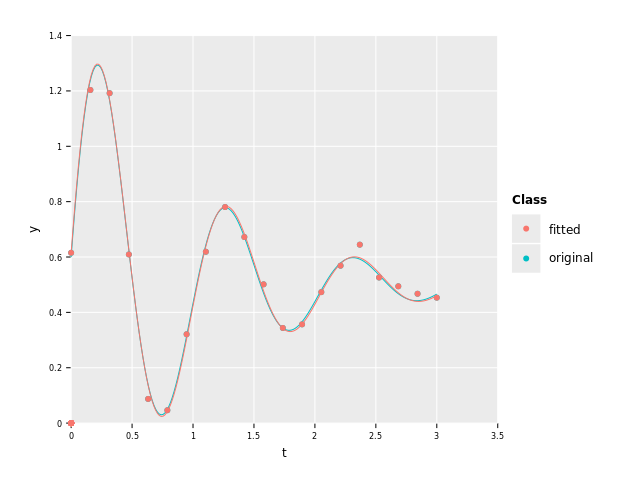
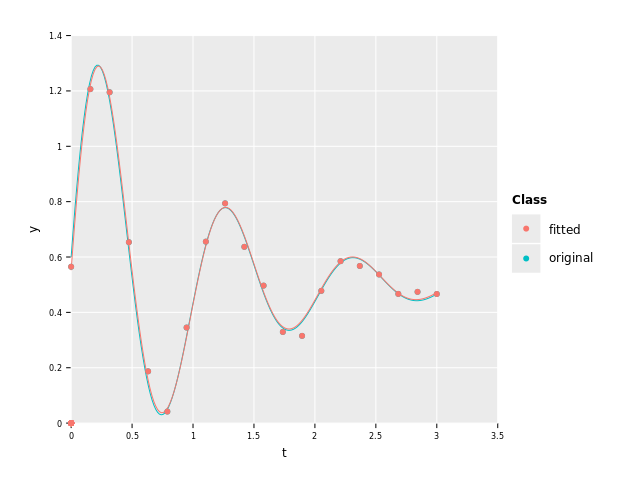
deploy: ea1044a0f6fc54a6c3d02a4777f60af0a025a29b

diff --git a/numerical_methods/curve_fitting.html b/numerical_methods/curve_fitting.html
@@ -290,14 +290,14 @@ that is needed is an initial guess of the parameters. We will set them to all 1 
                         <p>Now we are ready to do the actual fitting:</p>
                         <pre><code class="nohighlight hljs nim"><span class="hljs-keyword">let</span> solution = levmarq(fitFunc, initialGuess, t, y)
 <span class="hljs-keyword">echo</span> solution</code></pre><pre class="nb-output">Tensor[system.float] of shape &quot;[4]&quot; on backend &quot;Cpu&quot;
-    0.49973     5.96365    0.114903    0.981149</pre>
+    0.503366      6.03074    0.0489922      1.00508</pre>
                         <p>As we can see, the found parameters are very close to the actual ones. But maybe we can do better,
 <code>levmarq</code> accepts an <code>options</code> parameter which is the same as the one described in <a href="./optimization.html">Optimization</a>
 with the addition of the <code>lambda0</code> parameter. We can reduce the <code>tol</code> and see if we get an even better fit:</p>
                         <pre><code class="nohighlight hljs nim"><span class="hljs-keyword">let</span> options = levmarqOptions(tol=<span class="hljs-number">1e-10</span>)
 <span class="hljs-keyword">let</span> solution = levmarq(fitFunc, initialGuess, t, y, options=options)
 <span class="hljs-keyword">echo</span> solution</code></pre><pre class="nb-output">Tensor[system.float] of shape &quot;[4]&quot; on backend &quot;Cpu&quot;
-    0.49973     5.96365    0.114903    0.981149</pre>
+    0.503366      6.03074    0.0489921      1.00508</pre>
                         <p>As we can see, there isn't really any difference. So we can conclude that the
 found solution has in fact converged.</p>
 <p>Here's a plot comparing the fitted and original function:</p>
@@ -321,7 +321,7 @@ of your measurements or you may have to approximate it using the data itself.</p
   fitFunc(solution, x)</code></pre>
                         <p>Now we can calculate the $\chi^2$ using numericalnim's <code>chi2</code> proc:</p>
                         <pre><code class="nohighlight hljs nim"><span class="hljs-keyword">let</span> chi = chi2(y, yCurve, yError)
-<span class="hljs-keyword">echo</span> <span class="hljs-string">&quot;χ² = &quot;</span>, chi</code></pre><pre class="nb-output">χ² = 16.72018127975399</pre>
+<span class="hljs-keyword">echo</span> <span class="hljs-string">&quot;χ² = &quot;</span>, chi</code></pre><pre class="nb-output">χ² = 16.93637503832095</pre>
                         <p>Great! Now we have a measure of how good the fit is, but what if we add more points?
 Then we will get a better fit, but we will also get more points to sum over.
 And what if we choose another curve to fit with more parameters?
@@ -337,7 +337,7 @@ This is simplified, the mean $\chi^2$
 score adjusted to penalize too complex curves.</p>
 <p>Let's calculate it!</p>
                         <pre><code class="nohighlight hljs nim"><span class="hljs-keyword">let</span> reducedChi = chi / (y.len - solution.len).<span class="hljs-built_in">float</span>
-<span class="hljs-keyword">echo</span> <span class="hljs-string">&quot;Reduced χ² = &quot;</span>, reducedChi</code></pre><pre class="nb-output">Reduced χ² = 1.045011329984624</pre>
+<span class="hljs-keyword">echo</span> <span class="hljs-string">&quot;Reduced χ² = &quot;</span>, reducedChi</code></pre><pre class="nb-output">Reduced χ² = 1.058523439895059</pre>
                         <p>As a rule of thumb, values around 1 are desirable. If it is much larger
 than 1, it indicates a bad fit. And if it is much smaller than 1 it means
 that the fit is much better than the uncertainties suggested. This could
@@ -351,28 +351,28 @@ the Hessian of the objective function (we used $\chi^2$).
 <code>numericalnim</code> can compute the covariance matrix for us using <code>paramUncertainties</code>:</p>
                         <pre><code class="nohighlight hljs nim"><span class="hljs-keyword">let</span> cov = paramUncertainties(solution, fitFunc, t, y, yError, returnFullCov=<span class="hljs-literal">true</span>)
 <span class="hljs-keyword">echo</span> cov</code></pre><pre class="nb-output">Tensor[system.float] of shape &quot;[4, 4]&quot; on backend &quot;Cpu&quot;
-|1.68076e-05      1.53698e-05    -9.88303e-06     -2.1667e-06|
-|1.53698e-05      0.000670963    -0.000247717     5.82197e-06|
-|-9.88303e-06    -0.000247717     0.000246359    -1.88845e-06|
-|-2.1667e-06      5.82197e-06    -1.88845e-06     0.000409496|</pre>
+|1.70541e-05      1.58002e-05    -1.04688e-05     -2.4089e-06|
+|1.58002e-05      0.000707119    -0.000250193    -9.67158e-06|
+|-1.04688e-05    -0.000250193     0.000245993     4.47236e-06|
+|-2.4089e-06     -9.67158e-06     4.47236e-06     0.000446313|</pre>
                         <p>That is the full covariance matrix, but we are only interested in the diagonal elements.
 By default <code>returnFullCov</code> is false and then we get a 1D Tensor with the diagonal instead:</p>
                         <pre><code class="nohighlight hljs nim"><span class="hljs-keyword">let</span> variances = paramUncertainties(solution, fitFunc, t, y, yError)
 <span class="hljs-keyword">echo</span> variances</code></pre><pre class="nb-output">Tensor[system.float] of shape &quot;[4]&quot; on backend &quot;Cpu&quot;
-    1.68076e-05    0.000670963    0.000246359    0.000409496</pre>
+    1.70541e-05    0.000707119    0.000245993    0.000446313</pre>
                         <p>It's important to note that these values are the <strong>variances</strong> of the parameters.
 So if we want the standard deviations we will have to take the square root:</p>
                         <pre><code class="nohighlight hljs nim"><span class="hljs-keyword">let</span> paramUncertainty = sqrt(variances)
 <span class="hljs-keyword">echo</span> <span class="hljs-string">&quot;Uncertainties: &quot;</span>, paramUncertainty</code></pre><pre class="nb-output">Uncertainties: Tensor[system.float] of shape &quot;[4]&quot; on backend &quot;Cpu&quot;
-    0.0040997    0.0259029    0.0156958     0.020236</pre>
+    0.00412966     0.0265917     0.0156842     0.0211261</pre>
                         <p>All in all, these are the values and uncertainties we got for each of the parameters:</p>
                         <pre><code class="nohighlight hljs nim"><span class="hljs-keyword">echo</span> <span class="hljs-string">&quot;α = &quot;</span>, solution[<span class="hljs-number">0</span>], <span class="hljs-string">&quot; ± &quot;</span>, paramUncertainty[<span class="hljs-number">0</span>]
 <span class="hljs-keyword">echo</span> <span class="hljs-string">&quot;β = &quot;</span>, solution[<span class="hljs-number">1</span>], <span class="hljs-string">&quot; ± &quot;</span>, paramUncertainty[<span class="hljs-number">1</span>]
 <span class="hljs-keyword">echo</span> <span class="hljs-string">&quot;γ = &quot;</span>, solution[<span class="hljs-number">2</span>], <span class="hljs-string">&quot; ± &quot;</span>, paramUncertainty[<span class="hljs-number">2</span>]
-<span class="hljs-keyword">echo</span> <span class="hljs-string">&quot;δ = &quot;</span>, solution[<span class="hljs-number">3</span>], <span class="hljs-string">&quot; ± &quot;</span>, paramUncertainty[<span class="hljs-number">3</span>]</code></pre><pre class="nb-output">α = 0.4997296913630543 ± 0.004099702618360112
-β = 5.963645135105484 ± 0.02590294391910104
-γ = 0.1149030201635752 ± 0.01569584154385546
-δ = 0.9811490467398611 ± 0.02023601553057025</pre>
+<span class="hljs-keyword">echo</span> <span class="hljs-string">&quot;δ = &quot;</span>, solution[<span class="hljs-number">3</span>], <span class="hljs-string">&quot; ± &quot;</span>, paramUncertainty[<span class="hljs-number">3</span>]</code></pre><pre class="nb-output">α = 0.5033663155477502 ± 0.004129656819321223
+β = 6.030735258169046 ± 0.02659170150059456
+γ = 0.0489920969605781 ± 0.01568416864219338
+δ = 1.005076206375797 ± 0.02112613290725861</pre>
                         <h2>Further reading</h2>
 <ul>
 <li><a href="https://scinim.github.io/numericalnim/numericalnim/optimize.html">numericalnim's documentation on optimization</a></li>

diff --git a/numerical_methods/ode.html b/numerical_methods/ode.html
@@ -332,10 +332,10 @@ ggplot(df, aes(<span class="hljs-string">&quot;t&quot;</span>, <span class="hljs
 <code>odeOptions</code> would probably get them on-par with the others. There is one parameter we haven't talked about though,
 the execution time. Let's look at that and see if it bring any further insights:</p>
                         <pre><code class="nohighlight hljs nim"></code></pre><pre class="nb-output">   min time    avg time  std dv   runs name
-   7.521 ms   16.037 ms  ±6.048   x307 heun2
-  10.688 ms   14.887 ms  ±5.421   x334 rk4
-   0.278 ms    0.327 ms  ±0.175  x1000 rk21
-   0.342 ms    0.385 ms  ±0.124  x1000 tsit54</pre>
+  11.259 ms   20.406 ms  ±6.787   x243 heun2
+  14.426 ms   16.404 ms  ±3.768   x295 rk4
+   0.259 ms    0.284 ms  ±0.009  x1000 rk21
+   0.304 ms    0.361 ms  ±0.118  x1000 tsit54</pre>
                         <p>As we can see, the adaptive methods are orders of magnitude faster while achieving roughly the same errors.
 This is because they take fewer and longer steps when the function is flatter and only decrease the
 step-size when the function is changing more rapidly.</p>
@@ -393,10 +393,10 @@ ctx.tValues[<span class="hljs-string">&quot;A&quot;</span>] = @[@[<span class="h
                         <ul>
 <li>tsit54: 2.114975e-13</li>
 </ul>
-                        <pre><code class="nohighlight hljs nim"></code></pre><pre class="nb-output">4572.201 ms 4575.286 ms  ±4.364     x2 heun2
-9347.713 ms 9347.713 ms  ±0.000     x1 rk4
-  88.028 ms   88.096 ms  ±0.039    x57 rk21
- 411.828 ms  411.949 ms  ±0.091    x13 tsit54</pre>
+                        <pre><code class="nohighlight hljs nim"></code></pre><pre class="nb-output">2615.167 ms 2626.198 ms ±15.601     x2 heun2
+5261.133 ms 5261.133 ms  ±0.000     x1 rk4
+  50.778 ms   51.349 ms  ±0.291    x98 rk21
+ 224.308 ms  225.149 ms  ±0.704    x23 tsit54</pre>
                         <p>We can once again see that the high-order adaptive methods are both more accurate and faster than the fixed-order ones.</p>
 <h2>Further reading</h2>
 <ul>

diff --git a/external_language_integration/julia/nimjl_arrays.html b/external_language_integration/julia/nimjl_arrays.html
@@ -436,13 +436,13 @@ localTensor.apply_inline:
 <span class="hljs-keyword">echo</span> localTensor
 
 <span class="hljs-keyword">var</span> localTensor2 = localArray.to(<span class="hljs-type">Tensor</span>[<span class="hljs-built_in">int</span>], rowMajor)
-<span class="hljs-keyword">assert</span>(localTensor == localTensor2)</code></pre><pre class="nb-output">[3 5 4 1 3; 4 2 1 1 5; 1 1 1 1 1; 1 3 5 4 2; 1 3 3 4 2]
+<span class="hljs-keyword">assert</span>(localTensor == localTensor2)</code></pre><pre class="nb-output">[3 5 2 1 2; 5 1 3 4 4; 3 3 5 4 3; 5 2 5 4 2; 5 2 3 4 5]
 Tensor[system.int] of shape &quot;[5, 5]&quot; on backend &quot;Cpu&quot;
-|3      5     4     1     3|
-|4      2     1     1     5|
-|1      1     1     1     1|
-|1      3     5     4     2|
-|1      3     3     4     2|</pre>
+|3      5     2     1     2|
+|5      1     3     4     4|
+|3      3     5     4     3|
+|5      2     5     4     2|
+|5      2     3     4     5|</pre>
                         <p>Both Tensors have identical indexed values but the buffer are different according to the memory layout argument.</p>
 <p>When passing Tensor directly as values in a <code>jlCall</code> / <code>Julia.</code> expression, a <code>JlArray[T]</code> will be constructed by buffer; so you should be aware about the memory layout of the buffer.</p>
                         <pre><code class="nohighlight hljs nim"><span class="hljs-keyword">var</span> orderedTensor = newTensor[<span class="hljs-built_in">int</span>]([<span class="hljs-number">3</span>, <span class="hljs-number">2</span>])

diff --git a/basics/common_datatypes.html b/basics/common_datatypes.html
@@ -374,7 +374,7 @@ provides a <code>linspace</code> implementation. Let's create 5 evenly spaced po
 standard library provides a <code>rand</code> procedure we can combine with <code>mapIt</code>:</p>
                         <pre><code class="nohighlight hljs nim"><span class="hljs-keyword">import</span> random
 randomize()
-<span class="hljs-keyword">echo</span> toSeq(<span class="hljs-number">0</span> ..&lt; <span class="hljs-number">5</span>).mapIt(rand(<span class="hljs-number">10.0</span>))</code></pre><pre class="nb-output">@[3.248404591893539, 0.8147250549024365, 6.561275897577749, 8.244125886845488, 8.793871974402697]</pre>
+<span class="hljs-keyword">echo</span> toSeq(<span class="hljs-number">0</span> ..&lt; <span class="hljs-number">5</span>).mapIt(rand(<span class="hljs-number">10.0</span>))</code></pre><pre class="nb-output">@[9.579251111264801, 1.578132457619805, 4.889709401360747, 8.848071916580956, 2.386300214710697]</pre>
                         <p>samples 5 floating point numbers between 0 and 10.</p>
 <h2><code>Tensor[T]</code> - an ND-array type from <a href="https://github.com/mratsim/Arraymancer">Arraymancer</a></h2>
 <p>Arraymancer provides an ND-array type called <code>Tensor[T]</code> that is best compared to a numpy

diff --git a/numerical_methods/integration1d.html b/numerical_methods/integration1d.html
@@ -331,12 +331,12 @@ timeIt <span class="hljs-string">&quot;AdaSimpson&quot;</span>:
 
 timeIt <span class="hljs-string">&quot;AdaGauss&quot;</span>:
   keep adaptiveGauss(f, a, b, tol=tol)</code></pre><pre class="nb-output">   min time    avg time  std dv   runs name
-   0.059 ms    0.069 ms  ±0.062  x1000 Trapz
-   0.059 ms    0.069 ms  ±0.056  x1000 Simpson
-   0.101 ms    0.112 ms  ±0.058  x1000 GaussQuad
-   0.077 ms    0.101 ms  ±0.128  x1000 Romberg
-   0.274 ms    0.470 ms  ±1.165  x1000 AdaSimpson
-   0.077 ms    0.123 ms  ±0.266  x1000 AdaGauss</pre>
+   0.017 ms    0.019 ms  ±0.001  x1000 Trapz
+   0.018 ms    0.019 ms  ±0.005  x1000 Simpson
+   0.066 ms    0.076 ms  ±0.128  x1000 GaussQuad
+   0.036 ms    0.040 ms  ±0.002  x1000 Romberg
+   0.293 ms    0.493 ms  ±1.211  x1000 AdaSimpson
+   0.040 ms    0.045 ms  ±0.003  x1000 AdaGauss</pre>
                         <p>As we can see, all methods except AdaSimpson were roughly equally fast. So if I were to choose
 a winner, it would be <code>adaptiveGauss</code> because it was the most accurate while still being among
 the fastest methods.</p>

diff --git a/numerical_methods/optimization.html b/numerical_methods/optimization.html
@@ -300,10 +300,10 @@ BFGS: Tensor[system.float] of shape &quot;[2]&quot; on backend &quot;Cpu&quot;
 LBFGS: Tensor[system.float] of shape &quot;[2]&quot; on backend &quot;Cpu&quot;
     1     1
    min time    avg time  std dv   runs name
- 357.320 ms  429.597 ms ±45.295    x12 Steepest
-   0.172 ms    0.328 ms  ±0.858  x1000 Newton
-   2.839 ms   12.164 ms  ±7.746   x412 BFGS
-   5.458 ms   15.298 ms  ±7.515   x324 LBFGS</pre>
+ 214.122 ms  315.523 ms ±49.139    x16 Steepest
+   0.201 ms    0.268 ms  ±0.332  x1000 Newton
+   3.051 ms    9.665 ms  ±7.740   x509 BFGS
+   4.878 ms    9.730 ms  ±5.731   x504 LBFGS</pre>
                         <p>As we can see, Newton, BFGS and LBFGS found the exact solution and they did it fast.
 Steepest descent didn't find as good a solution and took by far the longest time.
 Steepest descent has an order of convergence of $O(N)$, Newton has $O(N^2)$ and (L)BFGS
